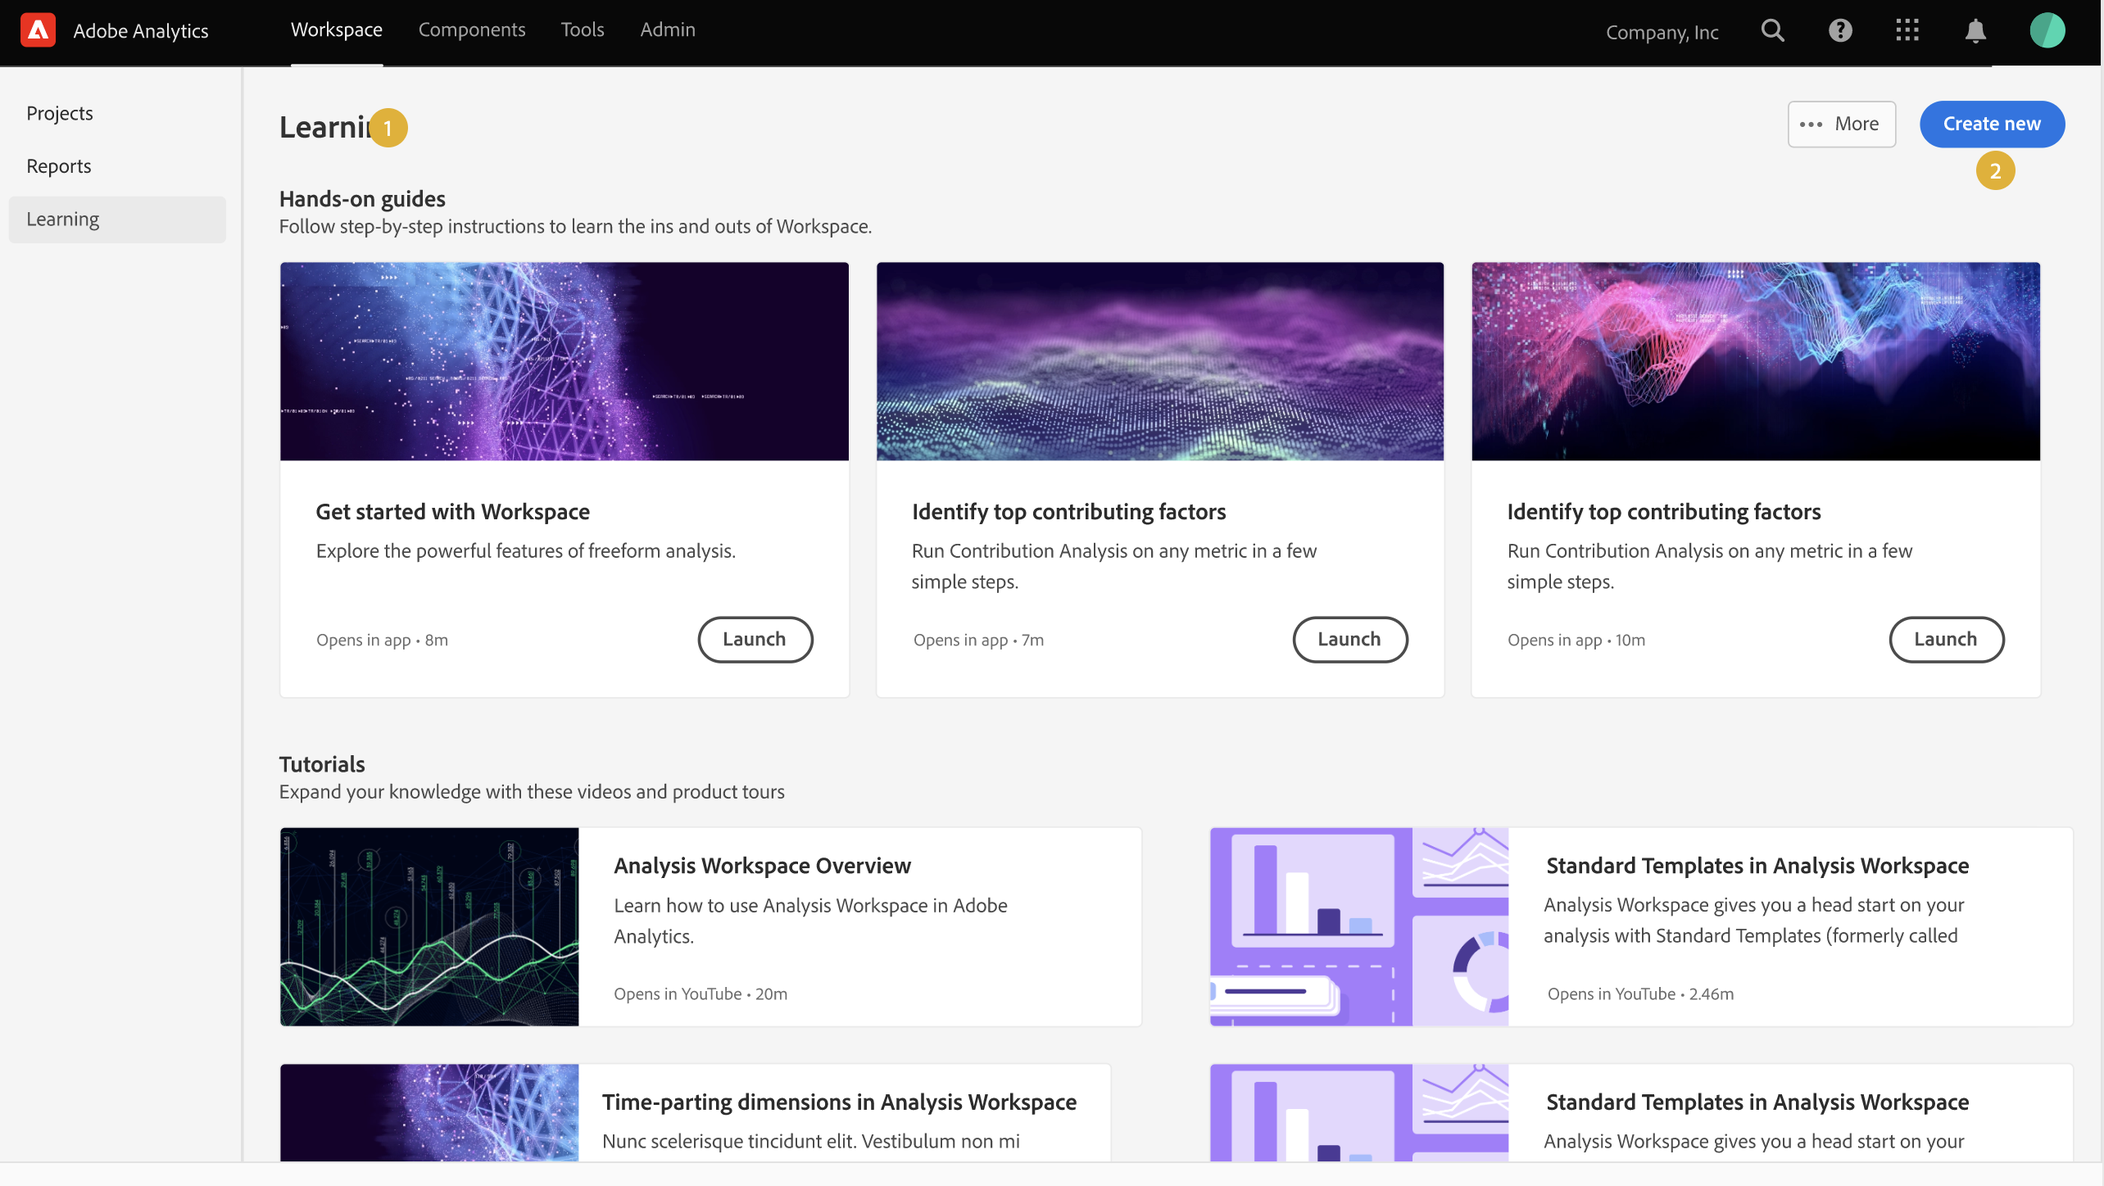
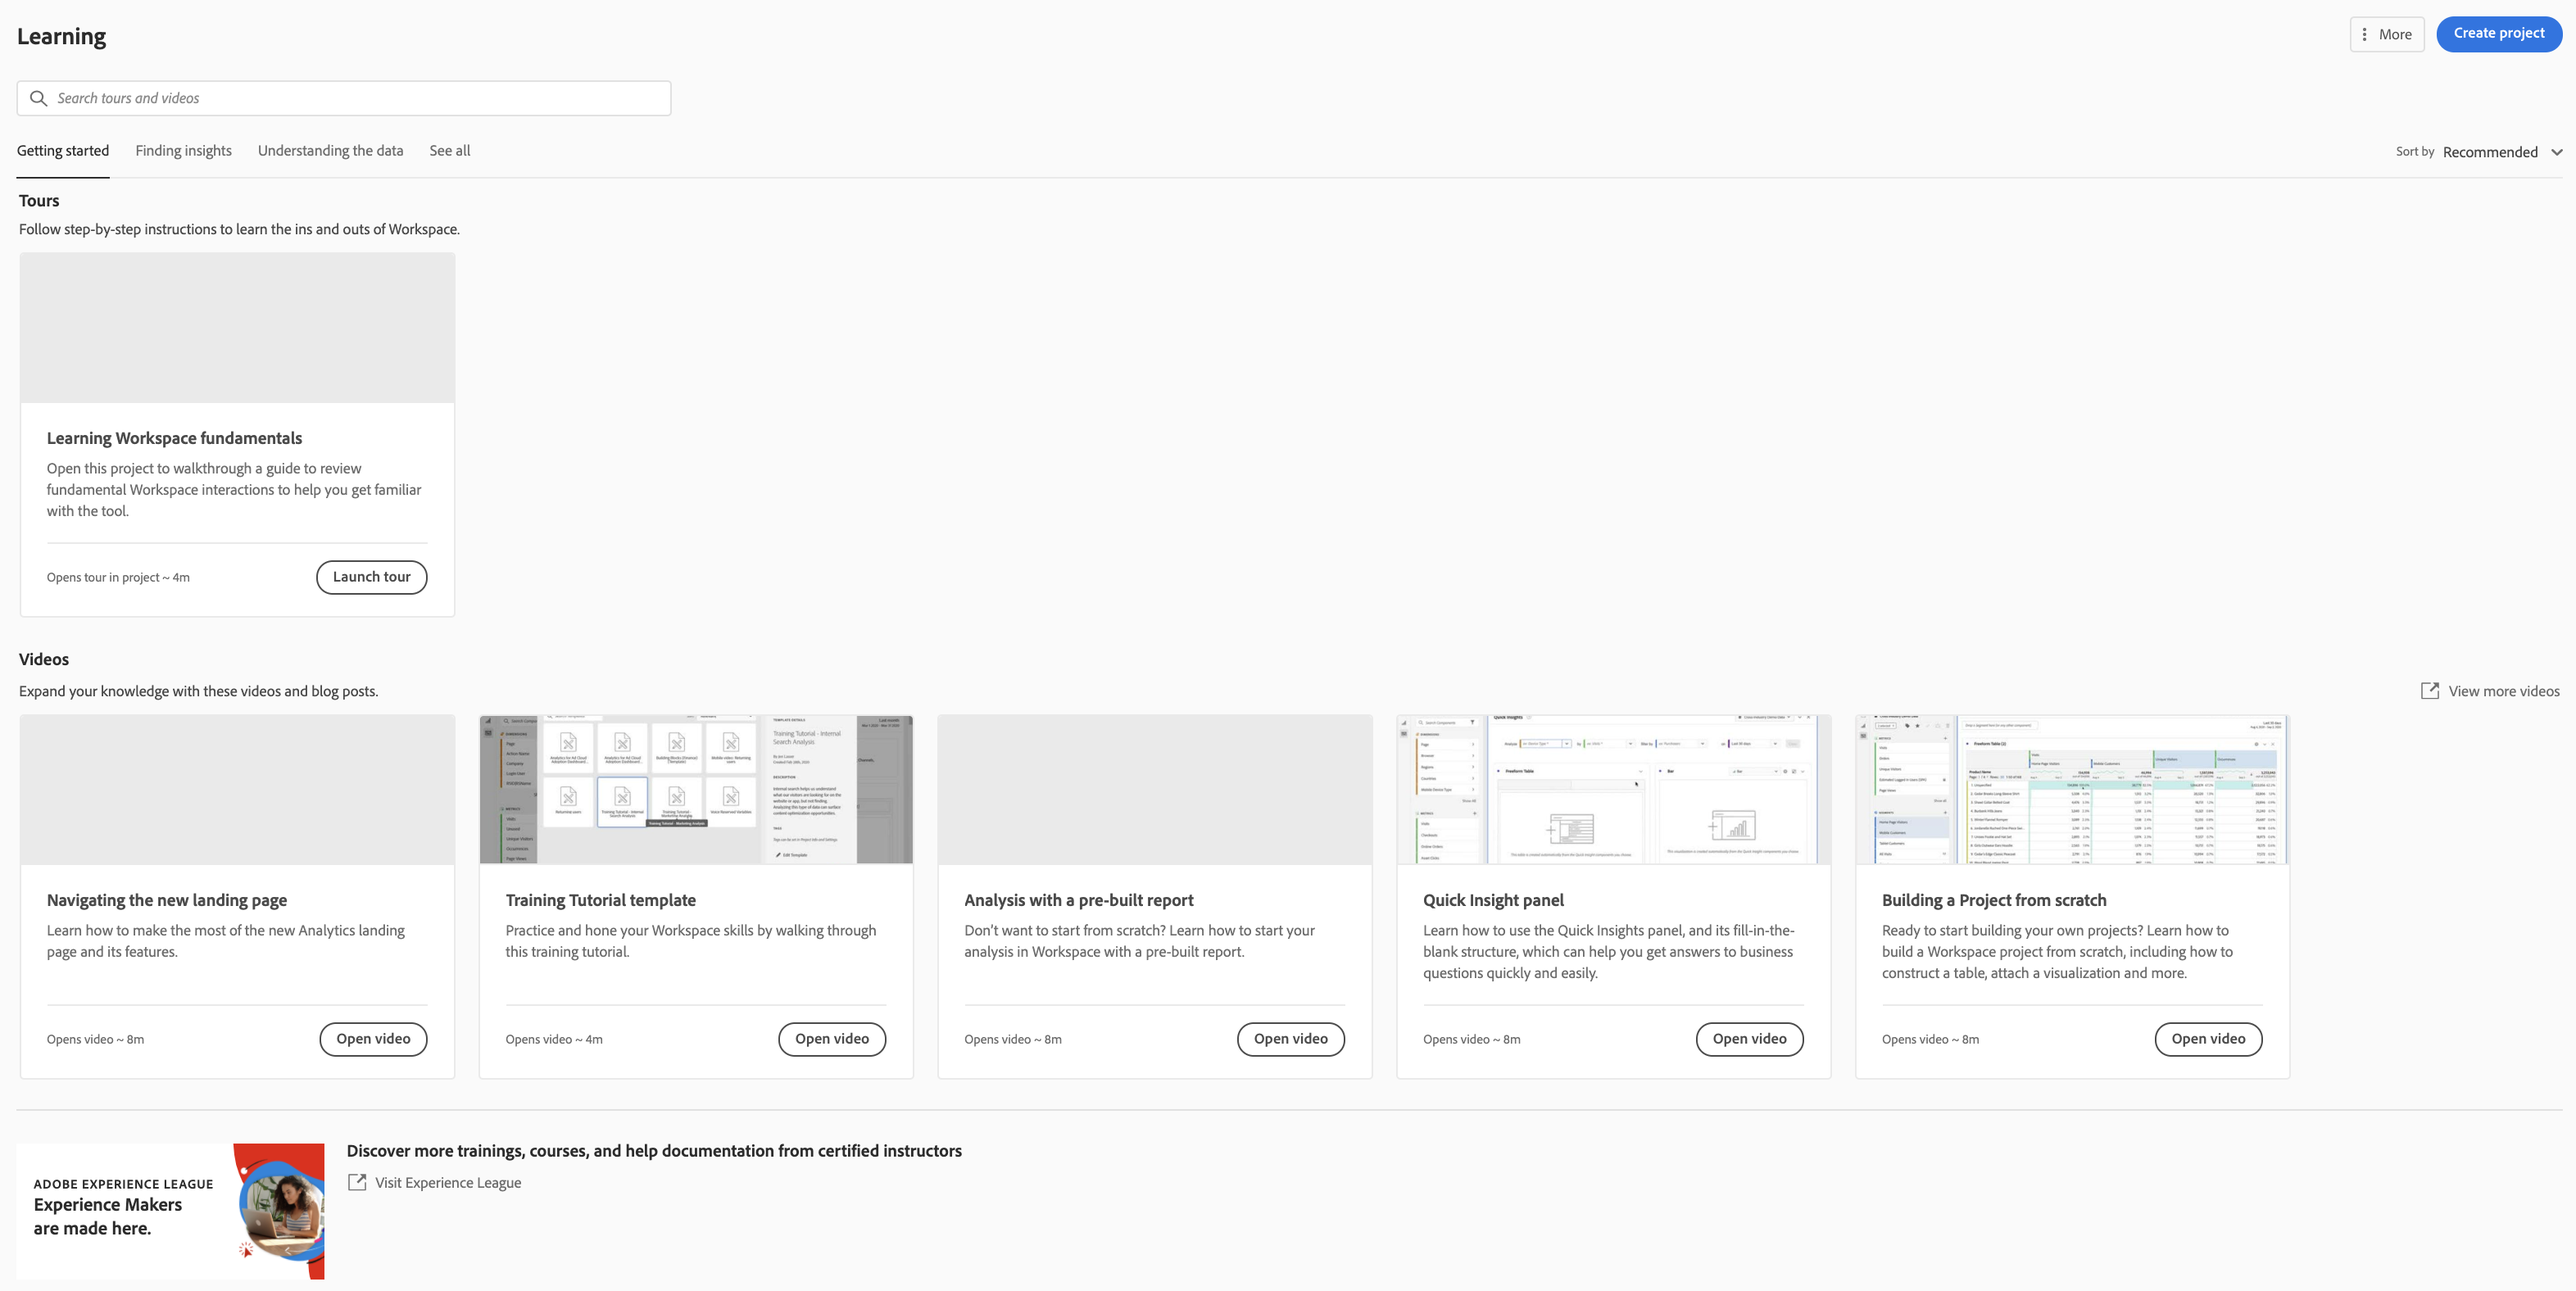
More updates to Unified ANalytics

diff --git a/help/landing/an-landing.md b/help/landing/an-landing.md
@@ -1,7 +1,6 @@
 ---
 description: Explains the new continuous feature release strategy for Adobe Analytics
 title: New Adobe Analytics landing page
-
 hide-in-toc: yes
 ---
 # New Adobe Analytics landing page
@@ -10,9 +9,9 @@ The new landing page for Adobe Analysis brings together both Analysis Workspace 
 
 The new page improves discoverability and guides Reports & Analytics users to an improved reporting experience in Workspace.
 
->[!NOTE]
+>[!IMPORTANT]
 >
->This landing page is currently in Public Beta - it is an optional starting point. If you prefer, you may use your existing landing page, whether that is Workspace or Reports. If you do decide to opt in to the beta program, access the page and click **[!UICONTROL Provide feedback]** at the top of the screen to log your feedback and any bugs you may encounter.
+>This landing page is currently in Public Beta - it is an optional starting point. If you prefer, you may use your existing landing page, whether that is Workspace or Reports. If you do decide to opt in to the beta program, access the page and click **[!UICONTROL Provide feedback]** at the top of the screen to log your feedback and any bugs you may encounter. Note that you can opt out of the beta program at any time. Any work done in the beta user interface carries over into the existing/current Workspace experience.
 
 ## Access the new landing page {#access-landing}
 
@@ -45,12 +44,12 @@ Note some changes to terminology:
 
 | UI element | Definition |
 | --- | --- |
-| ... More | Lets you [!UICONTROL View Tutorials], [!UICONTROL Manage projects], and [!UICONTROL Edit user preferences]. |
+| ... More | Lets you [!UICONTROL View Tutorials], and [!UICONTROL Edit user preferences](/help/analyze/analysis-workspace/user-preferences.md). |
 | Create project | The drop-down menu lets you create a [!UICONTROL Workspace project] or a [!UICONTROL Mobile project]. |
 | Show less/more | Toggles between not showing/showing the top banner: ![](assets/top-banner.png) |
 | Blank project | Creates a blank [Workspace project](https://experienceleague.adobe.com/docs/analytics/analyze/analysis-workspace/home.html?lang=en) for you to populate. |
 | Blank mobile scorecard | Creates a blank [mobile scorecard](https://experienceleague.adobe.com/docs/analytics/analyze/mobapp/curator.html?lang=en) for you to populate. |
-| Open Training Tutorial | Opens a training tutorial that guides new users through building a project in a step-by-step fashion.|
+| Open Training Tutorial | Opens the Workspace training tutorial that guides new users through building a project in a step-by-step fashion.|
 | Open release notes | Opens the Adobe Analytics section of the latest Adobe Experience Cloud release notes. |
 | Filter icon | You can filter on tags, report suites, owners, types, and other filters (Mine, Shared with me, Favorites, and Approved)  |
 | Search bar | The search now includes all columns in the table. |
@@ -58,8 +57,8 @@ Note some changes to terminology:
 | Favorites | Favoriting a project puts a star by it and tags it as a favorite that you can filter on.  |
 | Name | The name of the project. |
 | Pin icon | **New** You can now pin items and they will *always* appear at the top of your list. |
-| Info (i) icon | Clicking the info icon shows the following info about this project: Type, Project Role, Owner, Description, and who it is shared with. It also indicates who can edit or duplicate this project.  |
-| Ellipsis (...) | Clicking the ellipsis next to one or more projects displays the project management actions you can perform: Delete, Tag, Pin, Approve, Share, Rename, Copy, and Export to CSV. You may not have permissions to perform all of these actions. |
+| Info (i) icon | Clicking the info icon shows the following info about this project: Type, Project Role, Owner, Description, and who it is shared with. It also indicates who can [edit or duplicate](https://experienceleague.adobe.com/docs/analytics/analyze/analysis-workspace/curate-share/share-projects.html) this project. |
+| Ellipsis (...) | Clicking the ellipsis next to a project displays the project management actions you can perform: Delete, Tag, Pin, Approve, Share, Rename, Copy, and Export to CSV. You may not have permissions to perform all of these actions. |
 | Type | Indicates whether this is a Workspace project or a Mobile scorecard. |
 | Tags | You can tag reports to organize them into groups. |
 | Project Role | Project roles refer to whether you are the project Owner, and whether you have permissions to Edit or Duplicate the project.  |
@@ -67,6 +66,7 @@ Note some changes to terminology:
 | Owner | The person who created the project. |
 | Last opened | When this project was last opened. |
 | Column selector | If you want to add or remove columns from the list of projects, you can do so by selecting or deselecting them. |
+| < (Back button) | This button in a Workspace project or a report takes you back to your most recent landing page configuration. Whatever page configuration you had when you left the landing page will persist when you return. |
 
 ## Navigate the [!UICONTROL Reports] tab {#navigate-reports}
 
@@ -76,11 +76,17 @@ The [!UICONTROL Reports] tab consolidates three sets of reports:
 * Most of the pre-built reports under the previous Adobe Analytics [!UICONTROL Reports] menu located at the top. These reports are now displayed in [Analysis Workspace](https://experienceleague.adobe.com/docs/analytics/analyze/analysis-workspace/home.html?lang=en).
 * Anything your company has built for you.
 
+>[!IMPORTANT]
+>
+>Under Reports, a Favorites folder shows up only if you mark a new report as a favorite. No pre-existing Reports & Analytics favorites are carried forward.
+
 ![](assets/reports-tab.png)
 
 As previously mentioned, only the most commonly used reports that were formerly grouped in Reports & Analytics are available here. A handful of rarely used or no-longer-relevant reports were not migrated over. See the FAQ below for more detail.
 
 Here are the new menus and their submenus. If you cannot find a specific report, do a "Search on page" to find it.
+
+
 
 | Menu item | Reports under this menu item | 
 | --- | --- |
@@ -91,10 +97,15 @@ Here are the new menus and their submenus. If you cannot find a specific report,
 | Acquisition |<ul><li>Marketing channels > First touch channel, First touch channel detail (Which first touch channel, and which specific first touch channel is performing best?)</li><li>Marketing channels > First last channel, First last channel detail (Which last touch channel, and which specific last touch channel is performing best?)</li><li>Campaigns > Campaigns (Which campaigns are driving my key metrics?)</li><li>Campaigns > Campaign performance (What campaigns are driving the most revenue?)</li><li>Campaigns > Tracking code (Which campaign tracking codes perform the best?)</li><li>[Web acquisition](https://experienceleague.adobe.com/docs/analytics/analyze/analysis-workspace/build-workspace-project/starter-projects.html?lang=en#web)</li><li>[Mobile acquisition](https://experienceleague.adobe.com/docs/analytics/analyze/analysis-workspace/build-workspace-project/starter-projects.html?lang=en#mobile)</li><li>[Advertising Analytics: paid search](https://experienceleague.adobe.com/docs/analytics/analyze/analysis-workspace/build-workspace-project/starter-projects.html?lang=en#advertising)</li><li>Search keywords - all, paid, natural (Which search keywords and paid/natural search keywords drive my key metrics the best?)</li><li>Search engines - all, paid, natural (Which search engines and paid/natural search engines drive my key metrics the best?)</li><li>All search page ranking (Which search page are my users visiting from?)</li><li>Referring domains (Which domains are driving traffic to my site?)</li><li>Original referring domains (What was the first domain users were on before visiting my site?)</li><li>Referrers (Which URLs were my users on before clicking through to my site?)</li><li>Referrer types (Which category do my referring URLs belong to?)</li></ul> |
 | Company reports | Reports that your company created for your use. |
 
-
 ## Navigate the Learning tab {#navigate-learning}
 
-The Learning page contains hands-on video guides and tutorials, plus links to documentation.
+The Learning page contains hands-on video tours and tutorials, plus links to documentation.
+
+* The Workspace Fundamentals Tour takes you directly to Workspace and walks you through the Workspace layout and where to find/perform the most common actions. This Tour can also be re-launched any time directly in Workspace via the tool tip pop-over from the panel header.
+
+* Clicking on a video/tour adds a “Viewed” tag. This tag helps you track your progress through the learning content. You can click on the tag and it will disappear, in case you have not completed the content yet.
+
+* The “Learn more” button on the video modal takes you to an Adobe Experience League documentation page with more help content related to the video you just watched.  “View more videos” takes you to our full Workspace YouTube playlist.
 
 ![](assets/learning-tab.png)
 
@@ -102,7 +113,10 @@ The Learning page contains hands-on video guides and tutorials, plus links to do
 
 | Question | Answer |
 | --- | --- |
-| Are all reports that currently exist in Reports & Analytics still available? | No, the following reports were phased out, based on overall usage data: <ul><li>My Recommended Reports</li><li>Hourly Unique Visitors</li><li>Daily Unique Visitors</li><li>Weekly Unique Visitors</li><li>Monthly Unique Visitors</li><li>Quarterly Unique Visitors</li><li>Yearly Unique Visitors</li><li>Cookie support</li><li>Image support</li><li>Color depth</li><li>Audio support</li><li>Video support</li><li>Monitor color depth</li><li>Monitor resolutions</li><li>Java</li><li>JavaScript</li><li>JavaScript version</li><li>Cookies</li><li>Connection types</li><li>Operating system</li><li>Path length</li><li>Daily unique customers</li><li>Weekly unique customers</li><li>Monthly unique customers</li><li>Quarterly unique customers</li><li>Yearly unique customers</li><li>Visitor state</li></ul> |
-| Did any existing reports in Reports & Analytics get renamed? | Dunno |
+| Are all reports that currently exist in Reports & Analytics still available? | No, the following reports were phased out, based on overall usage data: <ul><li>My Recommended Reports</li><li>Hourly unique visitors</li><li>Daily unique visitors</li><li>Weekly unique visitors</li><li>Monthly unique visitors</li><li>Quarterly unique visitors</li><li>Yearly unique visitors</li><li>Daily unique customers</li><li>Weekly unique customers</li><li>Monthly unique customers</li><li>Quarterly unique customers</li><li>Yearly unique customers</li><li>Action name depth</li><li>Action name summary</li><li>Add dashboard</li><li>Age</li><li>Audio support</li><li>Billing information</li><li>Clicks to page</li><li>Color depth</li><li>Cookie support</li><li>Cookies</li><li>Connection types</li><li>Creative elements</li><li>Credit card type</li><li>Cross sell</li><li>Custom event funnels</li><li>Custom links</li><li>Customer ID</li><li>Day of week</li><li>Entry action name</li><li>Exit action name</li><li>Exit links</li><li>Fallout</li><li>File downloads</li><li>Find in store</li><li>Full paths</li><li>Gender</li><li>Hit ype VISTA rule</li><li>Image support</li><li>Java</li><li>JavaScript</li><li>JavaScript version</li><li>Manage bookmarks</li><li>Manage dashboards</li><li>Monitor color depth</li><li>Monitor resolutions</li><li>Newsletter signups</li><li>Next action name</li><li>Next action name flow</li><li>Null searches</li><li>Operating system</li><li>Order review</li><li>Page of day</li><li>Pages not found</li><li>Pathfinder</li><li>Path length</li><li>Previous action name</li><li>Previous action name flow</li><li>Product activity</li><li>Product cost</li><li>Product department</li><li>Product inventory category</li><li>Product name</li><li>Product reviews</li><li>Product season</li><li>Product shares</li><li>Product zooms</li><li>Reload</li><li>Searches</li><li>Servers</li><li>Single page visits</li><li>Shipping information</li><li>Site hierarchy</li><li>Social mentions</li><li>Time of day</li><li>Time spent on action name</li><li>Video support</li><li>Visitor state</li></ul> |
 | Where are the templates that I am used to seeing in Workspace? | These templates are grouped under the [!UICONTROL Reports] tab. |
-| What else? | Dunno. |
+| Can I opt out of the beta? | You can opt out of the beta at any time. 
+| Does the work I do in the beta UI carry over to the production UI? | Yes, any work done in the beta will carry to the old/current Workspace experience. |
+| Are my current Reports & Analytics favorites carried over? | No, they are NOT carried forward—BUT any Workspace Project favorites are carried over. |
+| Is there a maximum number of projects I can pin? | No, there is no limit on the number of projects you can pin. |
+| Can Admins designate this new landing page for their users? | No, Admins cannot designate the new landing page on behalf of users. Individual users must turn the toggle on themselves. |
